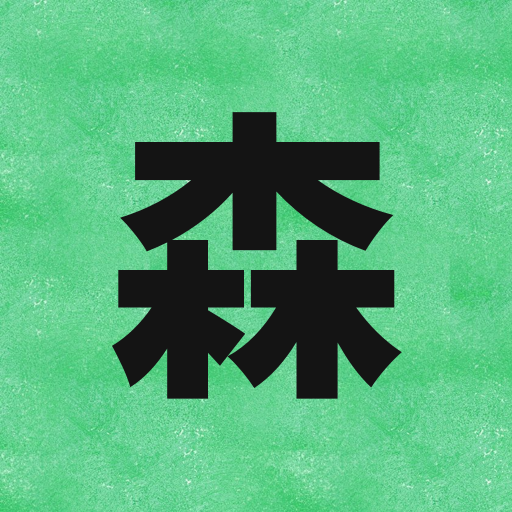
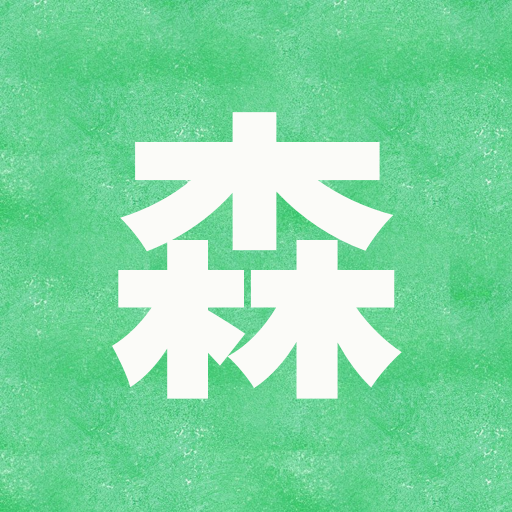
아이콘: 흰 森
Claude-Session: https://claude.ai/code/session_01AUCHsKtesand5TjS57xCpK

Changed region(s): [[0.2188, 0.2188, 0.7812, 0.7812]]

diff --git a/index.html b/index.html
@@ -10,8 +10,8 @@
 <meta name="theme-color" content="#fbfbf8">
 <title>삼중일기</title>
 <link rel="manifest" href="manifest.webmanifest">
-<link rel="apple-touch-icon" href="icon-180.png?v=2">
-<link rel="icon" href="icon-180.png?v=2">
+<link rel="apple-touch-icon" href="icon-180.png?v=3">
+<link rel="icon" href="icon-180.png?v=3">
 <link rel="preconnect" href="https://fonts.googleapis.com">
 <link rel="preconnect" href="https://fonts.gstatic.com" crossorigin>
 <link rel="stylesheet" href="https://fonts.googleapis.com/css2?family=IBM+Plex+Mono:wght@400;600;700&display=swap">
